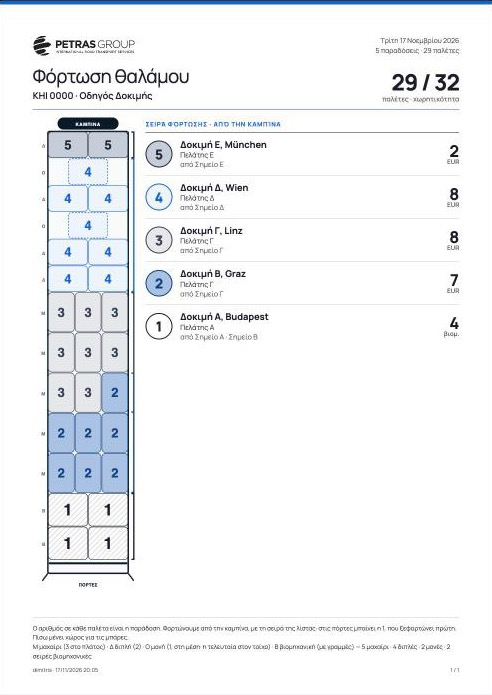
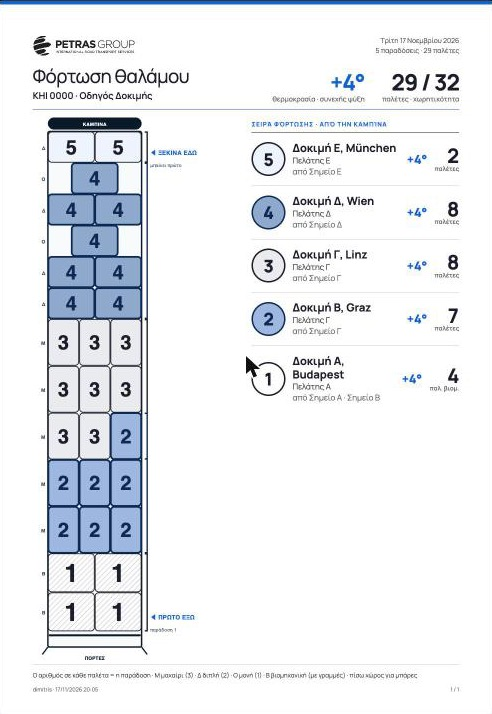
feat(load plan): the critic's points (bigger numbers, solid singles, «παλ.», black-and-white-safe shades, guide on the drawing, short legend) and the temperatures on the forklift sheet (owner 17/11)

diff --git a/modules/orders_intl_group.js b/modules/orders_intl_group.js
@@ -575,12 +575,16 @@ function loadParts(pts) {
 const PLAN_TONE = 'slate';
 const short = (t, n) => { t = String(t || ''); return t.length > n ? t.slice(0, n - 1) + '…' : t; };
 const placeName = p => String(p.name || '—').split(/[,(]/)[0].trim();
+// An order's temperature as the form holds it: 'CMR' (per CMR) or the number typed; '' when not given.
+function tempOf(m) { return q(m, 'f_TempCmr')?.checked ? 'CMR' : val(m, 'f_Temp'); }
+const fmtT = t => (t === 'CMR' ? 'κατά CMR' : (Number(t) > 0 ? '+' : '') + t + '°');
 function partLabels(parts, len) {
   return parts.map(x => ({
     key: x.no || 0,   // the tint of a delivery follows its number, the same on the drawing and on the sheet
     tag: x.no ? String(x.no) : '·',
     label: short((x.no ? x.no + '. ' : '') + (x.p ? placeName(x.p) : 'χωρίς παράδοση'), len),
-    sub: short(`${x.n} ${x.ind ? 'βιομ.' : 'EUR'}${val(x.m, 'ls_client') ? ' · ' + val(x.m, 'ls_client') : ''}`, len + 4),
+    // «παλ.», never «EUR»: in a form with prices «8 EUR» reads as money (critic 17/11)
+    sub: short(`${x.n} παλ.${x.ind ? ' βιομ.' : ''}${val(x.m, 'ls_client') ? ' · ' + val(x.m, 'ls_client') : ''}`, len + 4),
   }));
 }
 function rampHtml(pts, pal) {
@@ -591,7 +595,7 @@ function rampHtml(pts, pal) {
   if (lay.dropped) notes.push(note(lay.dropped === 1 ? 'Μία παλέτα δεν χωράει με αυτή τη σειρά παράδοσης' : lay.dropped + ' παλέτες δεν χωρούν με αυτή τη σειρά παράδοσης'));
   if (Math.ceil(onU) !== Math.ceil(pal)) notes.push(note(`Οι παλέτες των παραδόσεων (${onU}) δεν είναι όσες της φόρτωσης (${pal}) — το σχέδιο δείχνει των παραδόσεων`));
   return `<div class="igx-lp"><div class="igx-sh"><span>Φόρτωση${notes.join('')}</span><button type="button" onclick="IntlGroup.printRamp()">Φύλλο για κλαρκ</button></div>` +
-    LoadPlan.svg(lay, { scale: 2.3, parts: partLabels(parts, 26), width: 176, numbers: true, tone: PLAN_TONE }) + `<div class="w">${esc(LoadPlan.words(lay))}</div></div>`;
+    LoadPlan.svg(lay, { scale: 2.6, parts: partLabels(parts, 24), width: 168, numbers: true, tone: PLAN_TONE }) + `<div class="w">${esc(LoadPlan.words(lay))}</div></div>`;
 }
 // The sheet the forklifts load from (owner 17/11, «εκτύπωση για τα κλαρκ»): read from the seat of a forklift, so the
 // box is drawn as big as the page allows, every pallet carries its delivery number, and each delivery is one line
@@ -612,12 +616,18 @@ function printRamp() {
   const d0 = days[0] ? new Date(String(days[0]).slice(0, 10) + 'T12:00:00') : null;
   const now = new Date(), two = n => String(n).padStart(2, '0');
   const who = typeof user !== 'undefined' && user ? (user.name || user.username || '') : '';
+  // the driver and the forklift take this sheet: the temperature each delivery goes in (owner 17/11)
+  const temps = [...new Set(s.members.map(tempOf).filter(Boolean))];
+  const reefers = [...new Set(s.members.map(m => val(m, 'f_ReeferMode')).filter(Boolean))];
   _printWeekShell('Φόρτωση θαλάμου', rampSheet({
+    temp: temps.length === 1 ? fmtT(temps[0]) : '', split: temps.length > 1,
+    // the words the form shows for the reefer mode (orders_intl.js f_ReeferMode)
+    reefer: reefers.length === 1 ? ({ Continuous: 'συνεχής ψύξη', 'Start-Stop': 'Start-Stop', 'No temp': 'χωρίς ψύξη' }[reefers[0]] || reefers[0]) : '',
     date: d0 && !isNaN(d0) ? d0.toLocaleDateString('el-GR', { weekday: 'long', day: 'numeric', month: 'long', year: 'numeric' }) : '',
     vehicle: [plate, drv].filter(Boolean).join(' · '), pal, cap, lay, tone: PLAN_TONE,
     logo: new URL('logo.png', location.href).href,
     printed: `${esc(who)}${who ? ' · ' : ''}${two(now.getDate())}/${two(now.getMonth() + 1)}/${now.getFullYear()} ${two(now.getHours())}:${two(now.getMinutes())}`,
-    parts: parts.map(x => ({ no: x.no, n: x.n, ind: x.ind, place: x.p ? placeName(x.p) : '', client: val(x.m, 'ls_client'), from: fromOf(x.m) })),
+    parts: parts.map(x => ({ no: x.no, n: x.n, ind: x.ind, place: x.p ? placeName(x.p) : '', client: val(x.m, 'ls_client'), from: fromOf(x.m), temp: tempOf(x.m) ? fmtT(tempOf(x.m)) : '' })),
   }));
 }
 // The sheet itself, in the paper language of the redesign (owner 17/11, «τσέκαρε τη νέα μας σκέψη»: the A4 papers
@@ -633,7 +643,7 @@ function rampSheet(d) {
     const [bg, ink] = LoadPlan.paint(x.no || 0, d.tone);
     return `<div class="dl"><div class="no" style="background:${bg};color:${ink};border-color:${ink}">${x.no || '·'}</div>` +
       `<div class="tx"><b>${esc(x.place || 'χωρίς παράδοση')}</b><span>${esc(x.client)}</span><span class="fr">από ${esc(x.from) || '—'}</span></div>` +
-      `<div class="np">${x.n}<small>${x.ind ? 'βιομ.' : 'EUR'}</small></div></div>`;
+      `<div class="tp">${esc(x.temp || '—')}</div><div class="np">${x.n}<small>${x.ind ? 'παλ. βιομ.' : 'παλέτες'}</small></div></div>`;
   }).join('');
   const over = [lay.dropped ? `${lay.dropped} δεν χωρούν` : '', pal > cap ? `πάνω από ${cap}` : ''].filter(Boolean).join(' · ');
   const n = parts.filter(x => x.no).length;
@@ -645,22 +655,23 @@ function rampSheet(d) {
 .a4 .hero{display:flex;justify-content:space-between;align-items:flex-end;padding-bottom:12px;border-bottom:1.5px solid #0B63CE}
 .a4 h2{font-size:30px;font-weight:400;letter-spacing:-.6px;line-height:1.05;margin:0}.a4 .veh{font-size:15px;font-weight:600;margin-top:6px}
 .a4 .big{text-align:right;font-size:36px;font-weight:700;letter-spacing:-1px;line-height:1}.a4 .big small{display:block;font-size:11px;font-weight:500;color:#666;letter-spacing:0;margin-top:3px}
-.a4 .big.bad{color:#C92A31}.a4 .big.bad small{color:#C92A31}
+.a4 .hr{display:flex;gap:28px;align-items:flex-end}.a4 .big.tmp{color:#0B63CE}.a4 .big.bad{color:#C92A31}.a4 .big.bad small{color:#C92A31}
 .a4 .body{display:flex;gap:16px;align-items:flex-start;margin-top:12px}.a4 .list{flex:1;min-width:0}
 .a4 .psec{font-size:10px;font-weight:700;letter-spacing:.1em;text-transform:uppercase;color:#0B63CE;margin:4px 0 6px}
-.a4 .dl{display:grid;grid-template-columns:44px minmax(0,1fr) auto;gap:12px;align-items:center;padding:10px 0;border-top:.5px solid #CFCFCF}
+.a4 .dl{display:grid;grid-template-columns:54px minmax(0,1fr) auto auto;gap:12px;align-items:center;padding:14px 0;border-top:.5px solid #CFCFCF}
 .a4 .dl:first-of-type{border-top:1.5px solid #1B1D29}
-.a4 .no{width:40px;height:40px;border:2px solid;border-radius:50%;display:grid;place-items:center;font-size:22px;font-weight:800}
-.a4 .tx b{display:block;font-size:15px;font-weight:700;line-height:1.2}.a4 .tx span{display:block;font-size:11.5px;color:#444}.a4 .tx .fr{color:#666}
-.a4 .np{font-size:26px;font-weight:700;text-align:right;line-height:1;font-variant-numeric:tabular-nums}.a4 .np small{display:block;font-size:10px;font-weight:600;color:#666}
+.a4 .no{width:50px;height:50px;border:2.5px solid;border-radius:50%;display:grid;place-items:center;font-size:28px;font-weight:800}
+.a4 .tx b{display:block;font-size:18px;font-weight:700;line-height:1.2}.a4 .tx span{display:block;font-size:13px;color:#444}.a4 .tx .fr{color:#666}
+.a4 .tp{font-size:20px;font-weight:800;color:#0B63CE;white-space:nowrap;text-align:right}.a4 .np{font-size:32px;font-weight:700;text-align:right;line-height:1;font-variant-numeric:tabular-nums}.a4 .np small{display:block;font-size:10px;font-weight:600;color:#666}
 .a4 .fn{margin-top:auto;padding-top:10px;border-top:.5px solid #CFCFCF;font-size:10px;color:#333;line-height:1.5}
 .a4 .foot{margin-top:8px;display:flex;justify-content:space-between;font-size:9px;color:#666}</style>
 <div class="a4"><div class="top">${d.logo ? `<span class="logo" role="img" aria-label="Petras Group" style="background-image:url('${esc(d.logo)}')"></span>` : '<b>PETRAS GROUP</b>'}<span>${esc(d.date || '')}<br>${n} ${n === 1 ? 'παράδοση' : 'παραδόσεις'} · ${pal} παλέτες</span></div>
 <div class="hero"><div><h2>Φόρτωση θαλάμου</h2>${d.vehicle ? `<div class="veh">${d.vehicle}</div>` : ''}</div>
-<div class="big${over ? ' bad' : ''}">${pal} / ${cap}<small>${over ? esc(over) : 'παλέτες · χωρητικότητα'}</small></div></div>
-<div class="body"><div>${LoadPlan.svg(lay, { scale: 5.4, parts: parts.map(x => ({ key: x.no || 0, tag: x.no ? String(x.no) : '·' })), width: 0, font: 1.5, numbers: true, family: F, tone: d.tone })}</div>
+<div class="hr"><div class="big tmp${d.split ? ' bad' : ''}">${d.split ? 'ΧΩΡΙΣΜΑ' : esc(d.temp || '—')}<small>${d.split ? 'διαφορετικές θερμοκρασίες' : 'θερμοκρασία'}${d.reefer ? ' · ' + esc(d.reefer) : ''}</small></div>
+<div class="big${over ? ' bad' : ''}">${pal} / ${cap}<small>${over ? esc(over) : 'παλέτες · χωρητικότητα'}</small></div></div></div>
+<div class="body"><div>${LoadPlan.svg(lay, { scale: 6.3, parts: parts.map(x => ({ key: x.no || 0, tag: x.no ? String(x.no) : '·' })), width: 150, font: 1.5, numbers: true, family: F, tone: d.tone, guide: true })}</div>
 <div class="list"><p class="psec">Σειρά φόρτωσης · από την καμπίνα</p>${rows}</div></div>
-<div class="fn">Ο αριθμός σε κάθε παλέτα είναι η παράδοση. Φορτώνουμε από την καμπίνα, με τη σειρά της λίστας· στις πόρτες μπαίνει η 1, που ξεφορτώνει πρώτη. Πίσω μένει χώρος για τις μπάρες.<br>Μ μαχαίρι (3 στο πλάτος) · Δ διπλή (2) · Ο μονή (1, στη μέση· η τελευταία στον τοίχο) · Β βιομηχανική (με γραμμές) — ${esc(LoadPlan.words(lay))}</div>
+<div class="fn">Ο αριθμός σε κάθε παλέτα = η παράδοση · Μ μαχαίρι (3) · Δ διπλή (2) · Ο μονή (1) · Β βιομηχανική (με γραμμές) · πίσω χώρος για μπάρες</div>
 <div class="foot"><span>${d.printed || ''}</span><span>1 / 1</span></div></div>`;
 }
 
@@ -686,9 +697,8 @@ function paintSum(pts) {
     const days = U.map(p => p.date).filter(Boolean).sort();
     if (days.length) rows.push(['Παράδοση', days[0] === days[days.length - 1] ? dayOf(days[0]) : `${dayOf(days[0])} – ${dayOf(days[days.length - 1])}`]);
     rows.push(['Σημεία', `${L.length} φόρτωσης · ${U.length} παράδοσης`]);
-    const temps = [...new Set(s.members.map(m => (q(m, 'f_TempCmr')?.checked ? 'CMR' : val(m, 'f_Temp'))).filter(Boolean))];
+    const temps = [...new Set(s.members.map(tempOf).filter(Boolean))];
     const reefers = [...new Set(s.members.map(m => val(m, 'f_ReeferMode')).filter(Boolean))];
-    const fmtT = t => (t === 'CMR' ? 'κατά CMR' : (Number(t) > 0 ? '+' : '') + t + '°');
     rows.push(['Θερμοκρασία', `${temps.map(fmtT).join(' · ') || '—'}${temps.length > 1 ? note('Χώρισμα μέσα στον θάλαμο') : ''}${reefers.length > 1 ? note('Οι παραγγελίες γράφουν άλλη λειτουργία ψυκτικού — διάλεξε μία') : ''}`]);
     // The delivery order against the days (owner 15/11): a later day before an earlier one is shown, never refused.
     const dlDays = s.dl.map(pk => (U.find(p => p.pk === pk) || {}).date).filter(Boolean);

diff --git a/core/load-plan.js b/core/load-plan.js
@@ -198,6 +198,7 @@ function plan(counts) {
 //     a card on the sheet and its pallets match), a bracket with its label, and its tag written in every pallet
 //   numbers = write the tags in the pallets (on by default from scale 3)
 //   tone = 'slate' (blues, greys, white — the one the screens use), 'cool' | 'earth' (muted palettes), 'blue' | 'grey' (two tints of one colour), none (bright, one per delivery)
+//   guide = write «start here» by the cab and «first out» by the doors (the forklift sheet)
 //   family = the font of the texts (a paper of the redesign: Manrope)
 // Without parts: euro blue, industrial amber.
 const TAG = { K: 'Μ', D: 'Δ', S: 'Ο', I: 'Β', X: 'Β+Π' };
@@ -211,7 +212,9 @@ const TONES = {
   // muted palettes, every colour at about the same lightness so none shouts (owner 17/11 «μια παλέτα χρωμάτων»)
   // blues, greys and white only (owner 17/11 «αποχρώσεις του μπλε, γκρι, άσπρο»): light and darker alternate, so
   // two neighbouring deliveries never share a shade; the number in the pallet does the rest
-  slate: { fill: ['#D6E4F5', '#FFFFFF', '#A9C2E3', '#E4E7EC', '#EEF4FB', '#C6CDD7'], ink: ['#0B3F80', '#1B1D29', '#0B3F80', '#374151', '#0B63CE', '#1F2937'] },
+  // Odd deliveries light, even ones clearly darker (≥ 25% apart), so two neighbours stay apart on a black-and-white
+  // printer too; the even ones also get a heavier outline (independent critic 17/11).
+  slate: { fill: ['#B4BDC9', '#FFFFFF', '#9DB8DE', '#E8EBEF', '#8FA9CC', '#EEF4FB'], ink: ['#0B2A55', '#1B1D29', '#0B2A55', '#1B1D29', '#0B2A55', '#1B1D29'], heavy: true },
   cool: { fill: ['#DCE7F5', '#D5ECE8', '#E3EAD6', '#F2E8D5', '#E8E0EF', '#E1E5EA'], ink: ['#1F4E8C', '#1D675F', '#4A672C', '#87611E', '#664782', '#47525F'] },
   earth: { fill: ['#E9E3D7', '#DCE5E0', '#EEDDD8', '#DDE2EB', '#EDE6CF', '#E4E1E6'], ink: ['#5E5340', '#3E5E50', '#8A4B3C', '#3F5272', '#7A6526', '#5A5262'] },
 };
@@ -235,12 +238,15 @@ function svg(p, opts) {
     for (const c of r.cells) {
       const y0 = r.at + c.x, [fill, ink] = colour(c);
       const x = tagW + c.y * sc + 0.75, y = top + y0 * sc + 0.75, w = c.h * sc - 1.5, h = c.w * sc - 1.5;
-      out.push(`<rect x="${x.toFixed(1)}" y="${y.toFixed(1)}" width="${w.toFixed(1)}" height="${h.toFixed(1)}" rx="${(1.4 * Math.min(sc, 4)).toFixed(1)}" fill="${fill}" stroke="${ink}" stroke-width="${r.k === 'S' ? 1.1 : 0.9}"${r.k === 'S' ? ' stroke-dasharray="3 2"' : ''}/>`);
+      // a single is a pallet like any other: solid outline, told apart only by its place (critic 17/11: a dashed one
+      // read as an empty or optional place)
+      const sw = (TONES[o.tone] && TONES[o.tone].heavy && parts && key(c.part) % 2 === 0 ? 1.8 : 0.9) * Math.max(1, sc / 4);
+      out.push(`<rect x="${x.toFixed(1)}" y="${y.toFixed(1)}" width="${w.toFixed(1)}" height="${h.toFixed(1)}" rx="${(1.4 * Math.min(sc, 4)).toFixed(1)}" fill="${fill}" stroke="${ink}" stroke-width="${sw.toFixed(2)}"/>`);
       // an industrial is the bigger pallet: hatched, so it reads apart from a euro of the same delivery
       if (c.ind) out.push(`<rect x="${x.toFixed(1)}" y="${y.toFixed(1)}" width="${w.toFixed(1)}" height="${h.toFixed(1)}" rx="${(1.4 * Math.min(sc, 4)).toFixed(1)}" fill="url(#${hid})" style="color:${ink}"/>`);
       const tag = parts && parts[c.part] && parts[c.part].tag;
       if (numbers && tag != null && tag !== '') {
-        const fs = Math.max(7, Math.min(w, h) * 0.5);
+        const fs = Math.max(8, Math.min(w, h) * 0.66);
         out.push(`<text x="${(x + w / 2).toFixed(1)}" y="${(y + h / 2 + fs * 0.36).toFixed(1)}" text-anchor="middle" style="font-size:${fs.toFixed(1)}px;font-weight:700;fill:${ink}">${esc(tag)}</text>`);
       }
       const sp = span[c.part] || (span[c.part] = [y0, y0 + c.w]);
@@ -263,6 +269,13 @@ function svg(p, opts) {
     });
   }
   const free = BOX - p.used, cx = tagW + boxW / 2;
+  // opts.guide: the rule written on the drawing itself, by the cab and by the doors (critic 17/11)
+  if (o.guide) {
+    const gx = tagW + boxW + 14;
+    out.push(`<text class="lp-g" x="${gx}" y="${(top + 6 * sc).toFixed(1)}">◀ ΞΕΚΙΝΑ ΕΔΩ</text><text class="lp-gs" x="${gx}" y="${(top + 6 * sc + 13 * f).toFixed(1)}">μπαίνει πρώτο</text>`);
+    const end = top + Math.min(p.used, BOX) * sc;
+    out.push(`<text class="lp-g" x="${gx}" y="${(end - 13 * f).toFixed(1)}">◀ ΠΡΩΤΟ ΕΞΩ</text><text class="lp-gs" x="${gx}" y="${end.toFixed(1)}">παράδοση 1</text>`);
+  }
   // the bars at the back: the room left behind the load is where they go (owner 17/11)
   const bars = free >= 2
     ? `<line x1="${tagW + 3}" x2="${tagW + boxW - 3}" y1="${(top + (p.used + 1) * sc).toFixed(1)}" y2="${(top + (p.used + 1) * sc).toFixed(1)}" stroke="#0B1929" stroke-width="${2.2 * f}" stroke-linecap="round"/>` +
@@ -270,10 +283,10 @@ function svg(p, opts) {
     : '';
   return `<svg class="lp" viewBox="0 0 ${W.toFixed(0)} ${H.toFixed(0)}" width="${W.toFixed(0)}" role="img" aria-label="${esc(aria(p))}">` +
     `<defs><pattern id="${hid}" width="6" height="6" patternUnits="userSpaceOnUse" patternTransform="rotate(45)"><line x1="0" y1="0" x2="0" y2="6" stroke="currentColor" stroke-width="1.2" opacity=".35"/></pattern></defs>` +
-    `<style>.lp text{font-family:${o.family || "'DM Sans',sans-serif"}}.lp-t{font-size:${7.5 * f}px;font-weight:600;fill:#64748B}` +
-    `.lp-l{font-size:${9.5 * f}px;font-weight:700}.lp-s{font-size:${8 * f}px;fill:#475569}.lp-c{font-size:${7.5 * f}px;font-weight:700;fill:#fff;letter-spacing:.08em}</style>` +
+    `<style>.lp text{font-family:${o.family || "'DM Sans',sans-serif"}}.lp-t{font-size:${8 * f}px;font-weight:700;fill:#334155}` +
+    `.lp-l{font-size:${9.5 * f}px;font-weight:700}.lp-s{font-size:${8 * f}px;fill:#475569}.lp-c{font-size:${Math.min(7.5 * f, boxW / 6.2)}px;font-weight:700;fill:#fff;letter-spacing:.04em}.lp-g{font-size:${10 * f}px;font-weight:800;fill:#0B63CE}.lp-gs{font-size:${7.5 * f}px;fill:#475569}</style>` +
     // the cab: a navy cap on the front wall
-    `<rect x="${tagW + boxW * 0.12}" y="0" width="${boxW * 0.76}" height="${cab}" rx="${cab / 2}" fill="#0B1929"/>` +
+    `<rect x="${tagW}" y="0" width="${boxW}" height="${cab}" rx="${cab / 2}" fill="#0B1929"/>` +
     `<text class="lp-c" x="${cx}" y="${(cab / 2 + 2.6 * f).toFixed(1)}" text-anchor="middle">ΚΑΜΠΙΝΑ</text>` +
     `<rect x="${tagW}" y="${top}" width="${boxW}" height="${boxH}" rx="3" fill="#F8FAFC" stroke="#0B1929" stroke-width="${1.6 * f}"/>` +
     out.join('') + bars +
